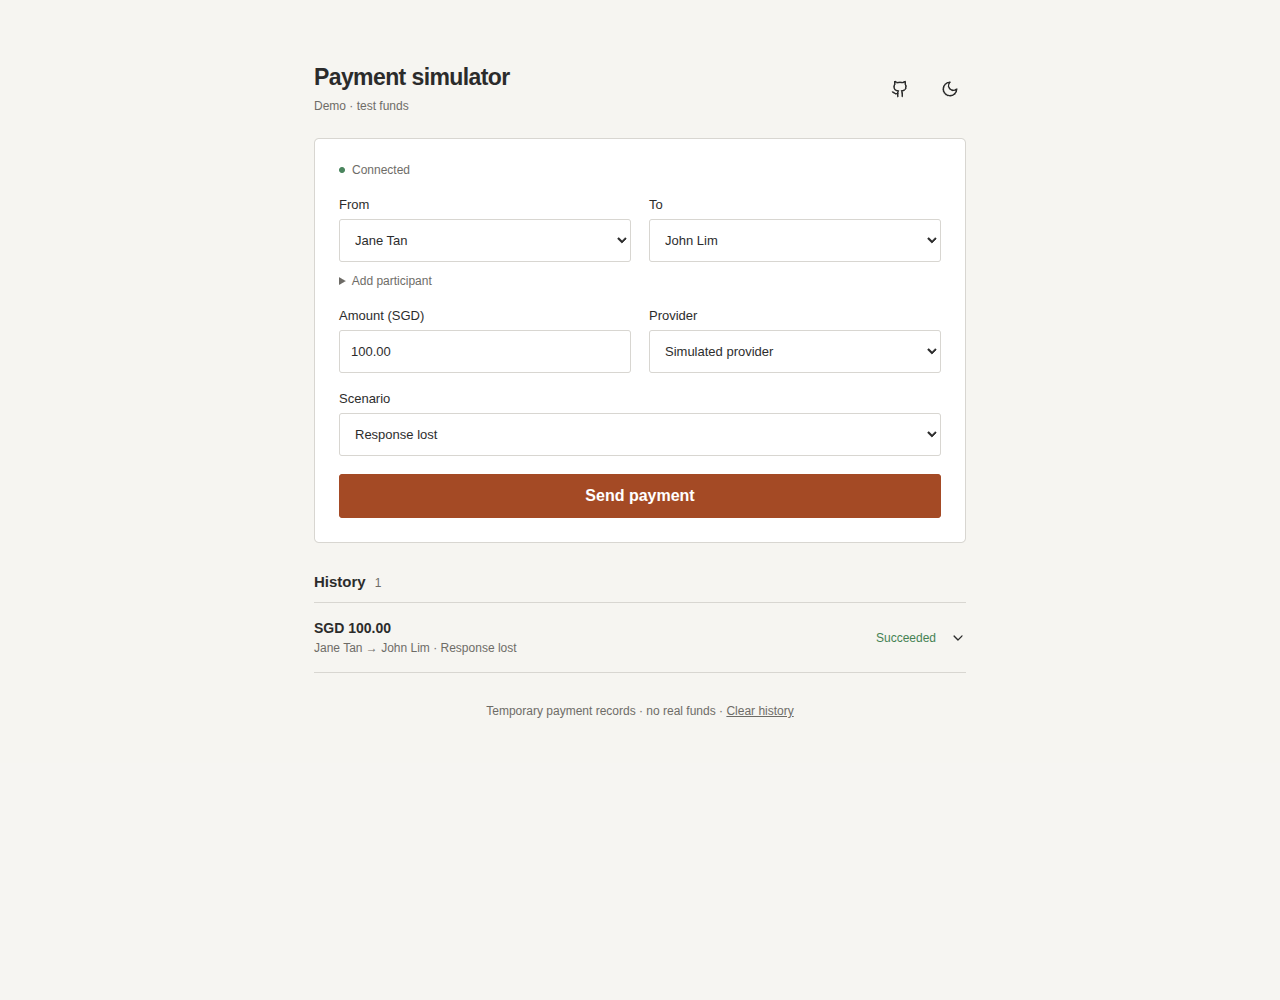
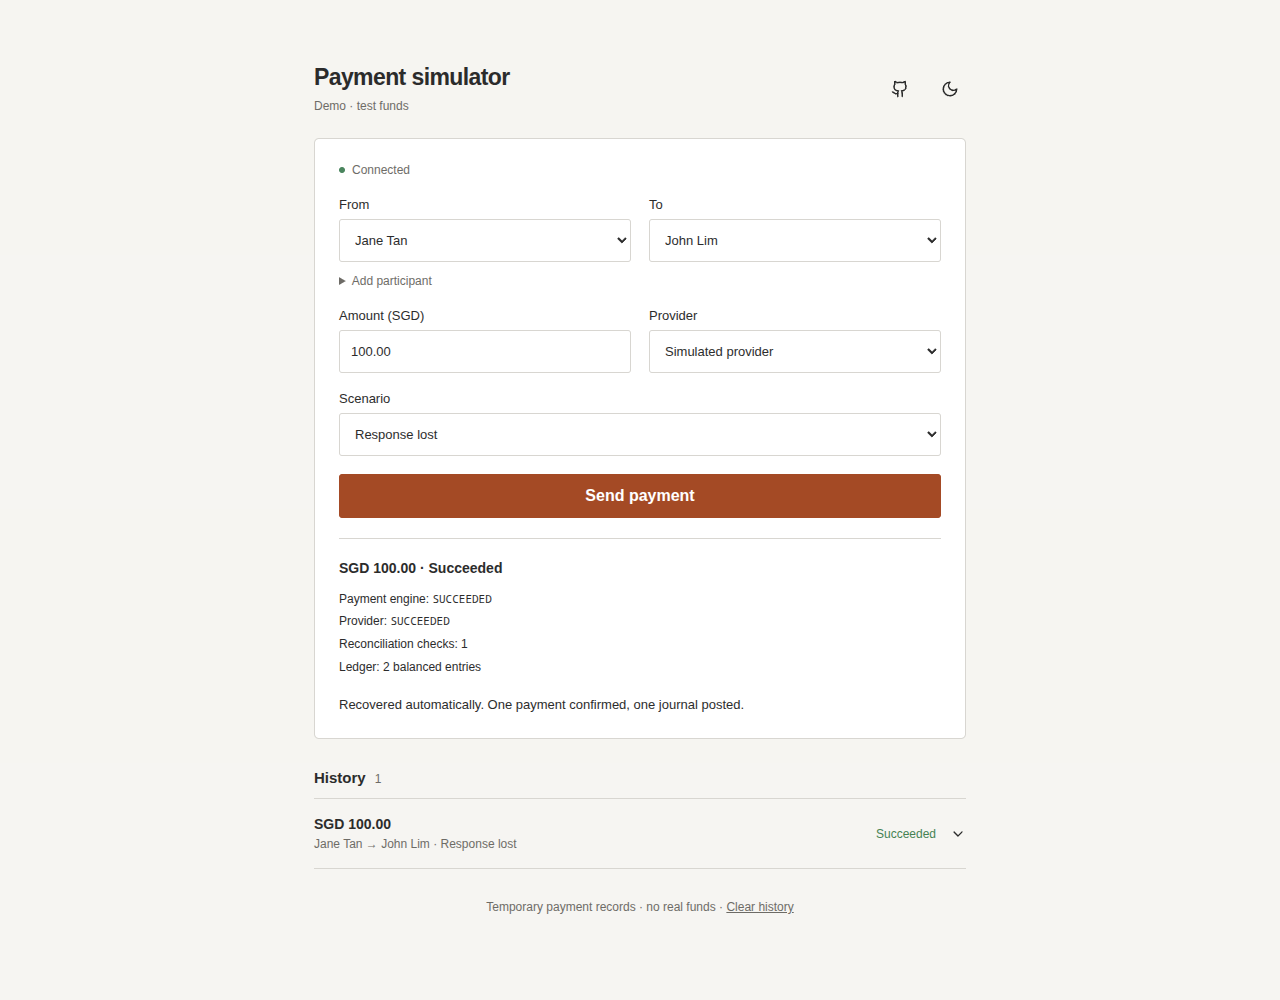
Retry database startup and record live deployment verification

diff --git a/frontend/e2e/payments.spec.ts b/frontend/e2e/payments.spec.ts
@@ -200,11 +200,19 @@ test("authenticated Mastercard payout and lookup", async ({ page }) => {
   await expect(
     page.getByRole("button", { name: "Send payment", exact: true }),
   ).toBeEnabled();
+  const lookup = page.waitForResponse(
+    (response) =>
+      /\/api\/v1\/payouts\/[^/]+\/provider$/.test(response.url()) &&
+      response.request().method() === "GET",
+  );
   await page.getByRole("button", { name: "Send payment", exact: true }).click();
   await expect(
     page.getByRole("button", { name: "Send payment", exact: true }),
   ).toBeEnabled({ timeout: 30000 });
   await expect(page.locator(".payment-status")).toHaveText("Succeeded");
+  const observed = await lookup;
+  expect(observed.status()).toBe(200);
+  expect((await observed.json()).provider.status).toBe("SUCCEEDED");
   await page.locator(".payment-summary").click();
   await page.getByText(/^Ledger ·/).click();
   await expect(page.locator("tbody tr")).toHaveCount(2);

diff --git a/docs/deployment.md b/docs/deployment.md
@@ -17,7 +17,7 @@ SPRING_DATASOURCE_HIKARI_MAXIMUM_POOL_SIZE=5
 SPRING_DATASOURCE_HIKARI_MINIMUM_IDLE=0
 ```
 
-Deploy. Flyway creates and updates the schema automatically. Inspect startup logs and `/actuator/health` before testing a payment. The demo runs recovery steps during the browser workflow; the scheduled reconciliation worker is available for persistent local operation.
+Deploy. Flyway retries a temporarily unavailable database before creating or updating the schema. Inspect startup logs and `/actuator/health` before testing a payment. The demo runs recovery steps during the browser workflow; the scheduled reconciliation worker is available for persistent local operation.
 
 Free apps sleep after inactivity. Blitz displays its own waking page before our app can load. Once our UI loads, connection failures are checked automatically with backoff. A payment whose HTTP response was lost keeps its original idempotency key and offers **Resume unfinished request**, preventing an accidental new payment.
 
@@ -44,8 +44,8 @@ The browser requests verification before Mastercard use. The server verifies Clo
 
 ## Hosting status
 
-- Blitz PostgreSQL has been created and connected. Application cutover and final public checks are in progress.
-- Original Neon databases remain intact; no database was deleted.
-- Render was not deployed because the account requested payment-card verification.
+- The app now uses Blitz PostgreSQL 17.11. Startup validated all 13 migrations; the public payment/ledger smoke check and all 20 browser tests passed on 2026-10-02, including authenticated Mastercard submission and reference lookup.
+- Neon is no longer the active database; its connection settings were removed from Blitz. Its databases remain intact for rollback.
+- The first database connection was refused; restarting the app established the connection. Turnstile activation still needs real Cloudflare keys.
 
 [Blitz database documentation](https://blitz.cloud/docs/databases/) · [Plan limits](https://blitz.cloud/docs/limits/) · [Turnstile verification](https://developers.cloudflare.com/turnstile/get-started/server-side-validation/)

diff --git a/docs/mastercard.md b/docs/mastercard.md
@@ -49,6 +49,8 @@ Select **Mastercard sandbox** in the provider field and **Send payment**. The wo
 
 ## Verification
 
+On **2026-10-02**, the public browser workflow submitted USD 53.00 through the authenticated sandbox adapter and posted one balanced journal. The automatic reference lookup completed successfully.
+
 On **2026-09-27**, authenticated local Java and browser workflows submitted USD 53.00, received approval, retrieved the same transaction by reference, posted one balanced journal, and returned the original payment on idempotent replay. A safe repeat also recovered a timed-out request. An earlier incomplete request preserved `UNKNOWN` without a journal.
 
 The static sandbox returns simulated responses. This verifies signing and sandbox compatibility, not production settlement, MTF readiness or all Mastercard failure scenarios. CI uses generated keys and local contract fixtures; live credentials are never required. Current public verification is recorded in [Deployment](deployment.md).

diff --git a/README.md b/README.md
@@ -40,7 +40,7 @@ Open **http://localhost:8080**. Mastercard credentials are optional. The UI and 
 - **Concurrency:** unique constraints and optimistic locking protect competing creation and processing requests.
 - **Isolation and limits:** workspaces cannot access one another’s payments; database-backed Mastercard budgets limit outgoing calls. Optional Turnstile verification protects external-provider actions.
 
-Authenticated Mastercard sandbox creation and reference lookup were verified on **2026-09-27**. This is sandbox integration evidence, not production settlement. Public deployment verification is recorded in the [deployment guide](docs/deployment.md).
+Authenticated Mastercard sandbox creation and reference lookup were verified on the public deployment on **2026-10-02**. This is sandbox integration evidence, not production settlement. Public deployment verification is recorded in the [deployment guide](docs/deployment.md).
 
 ## Development
 
